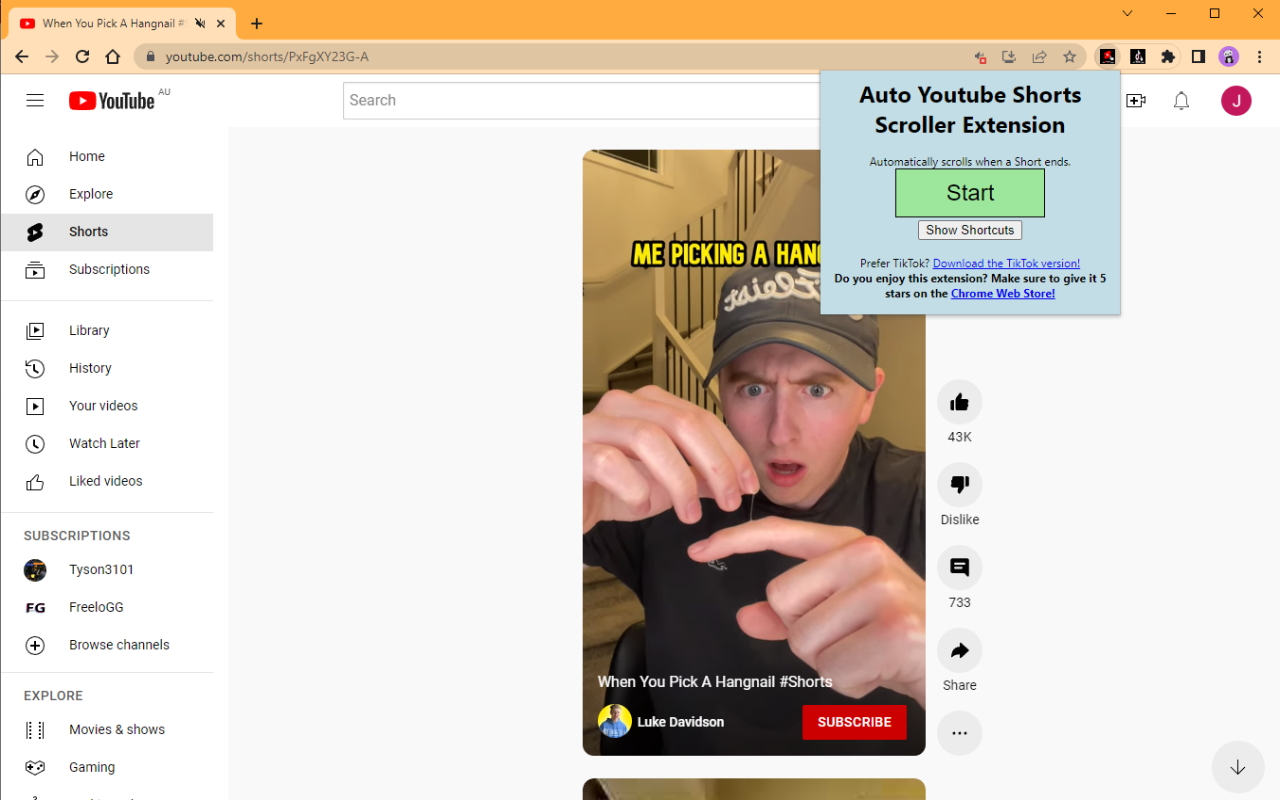
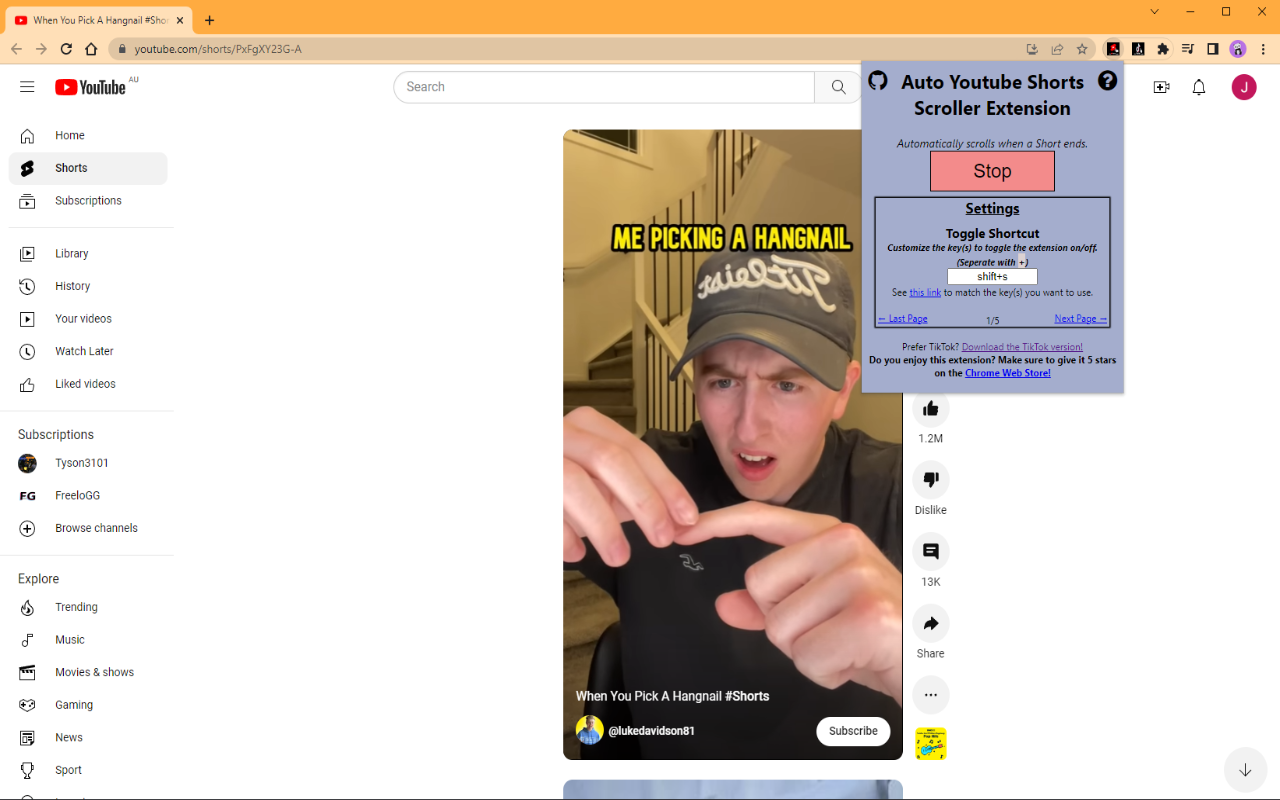
Fix popup showing on other than install

Changed region(s): [[0.0, 0.0, 1.0, 1.0]]

diff --git a/extension/dist/background.js b/extension/dist/background.js
@@ -1,17 +1,48 @@
 // On install show html page and set applicationIsOn to true, + settings
 chrome.runtime.onInstalled.addListener(() => {
-    chrome.tabs.create({ url: "popup/install.html" });
-    chrome.storage.local.set({ applicationIsOn: true });
-    chrome.storage.local.set({ filterByMaxLength: "none" });
-    chrome.storage.local.set({ filterByMinLength: "none" });
-    chrome.storage.local.set({ amountOfPlaysToSkip: 1 });
-    chrome.storage.local.set({ scrollOnComments: false });
-    chrome.storage.local.set({ shortCutKeys: ["shift", "s"] });
-    chrome.storage.local.set({ shortCutInteractKeys: ["shift", "f"] });
-    chrome.storage.local.set({
-        filteredAuthors: ["Tyson3101"],
-    });
+  // Check installion or updated
+  chrome.storage.local.get(
+    [
+      "applicationIsOn",
+      "filterByMaxLength",
+      "filterByMinLength",
+      "amountOfPlaysToSkip",
+      "scrollOnComments",
+      "shortCutKeys",
+      "shortCutInteractKeys",
+      "filteredAuthors",
+    ],
+    (result) => {
+      if (result.applicationIsOn == undefined) {
+        chrome.storage.local.set({ applicationIsOn: true });
+        chrome.tabs.create({ url: "popup/install.html" });
+      }
+      if (result.filterByMaxLength == undefined) {
+        chrome.storage.local.set({ filterByMaxLength: "none" });
+      }
+      if (result.filterByMinLength == undefined) {
+        chrome.storage.local.set({ filterByMinLength: "none" });
+      }
+      if (result.amountOfPlaysToSkip == undefined) {
+        chrome.storage.local.set({ amountOfPlaysToSkip: 1 });
+      }
+      if (result.scrollOnComments == undefined) {
+        chrome.storage.local.set({ scrollOnComments: false });
+      }
+      if (result.shortCutKeys == undefined) {
+        chrome.storage.local.set({ shortCutKeys: ["shift", "s"] });
+      }
+      if (result.shortCutInteractKeys == undefined) {
+        chrome.storage.local.set({ shortCutInteractKeys: ["shift", "f"] });
+      }
+      if (result.filteredAuthors == undefined) {
+        chrome.storage.local.set({
+          filteredAuthors: ["Tyson3101"],
+        });
+      }
+    }
+  );
 });
 chrome.runtime.onUpdateAvailable.addListener(() => {
-    chrome.runtime.reload();
+  chrome.runtime.reload();
 });

diff --git a/src/background.ts b/src/background.ts
@@ -1,16 +1,48 @@
 // On install show html page and set applicationIsOn to true, + settings
 chrome.runtime.onInstalled.addListener(() => {
-  chrome.tabs.create({ url: "popup/install.html" });
-  chrome.storage.local.set({ applicationIsOn: true });
-  chrome.storage.local.set({ filterByMaxLength: "none" });
-  chrome.storage.local.set({ filterByMinLength: "none" });
-  chrome.storage.local.set({ amountOfPlaysToSkip: 1 });
-  chrome.storage.local.set({ scrollOnComments: false });
-  chrome.storage.local.set({ shortCutKeys: ["shift", "s"] });
-  chrome.storage.local.set({ shortCutInteractKeys: ["shift", "f"] });
-  chrome.storage.local.set({
-    filteredAuthors: ["Tyson3101"],
-  });
+  // Check installion or updated
+
+  chrome.storage.local.get(
+    [
+      "applicationIsOn",
+      "filterByMaxLength",
+      "filterByMinLength",
+      "amountOfPlaysToSkip",
+      "scrollOnComments",
+      "shortCutKeys",
+      "shortCutInteractKeys",
+      "filteredAuthors",
+    ],
+    (result) => {
+      if (result.applicationIsOn == undefined) {
+        chrome.storage.local.set({ applicationIsOn: true });
+        chrome.tabs.create({ url: "popup/install.html" });
+      }
+      if (result.filterByMaxLength == undefined) {
+        chrome.storage.local.set({ filterByMaxLength: "none" });
+      }
+      if (result.filterByMinLength == undefined) {
+        chrome.storage.local.set({ filterByMinLength: "none" });
+      }
+      if (result.amountOfPlaysToSkip == undefined) {
+        chrome.storage.local.set({ amountOfPlaysToSkip: 1 });
+      }
+      if (result.scrollOnComments == undefined) {
+        chrome.storage.local.set({ scrollOnComments: false });
+      }
+      if (result.shortCutKeys == undefined) {
+        chrome.storage.local.set({ shortCutKeys: ["shift", "s"] });
+      }
+      if (result.shortCutInteractKeys == undefined) {
+        chrome.storage.local.set({ shortCutInteractKeys: ["shift", "f"] });
+      }
+      if (result.filteredAuthors == undefined) {
+        chrome.storage.local.set({
+          filteredAuthors: ["Tyson3101"],
+        });
+      }
+    }
+  );
 });
 
 chrome.runtime.onUpdateAvailable.addListener(() => {
